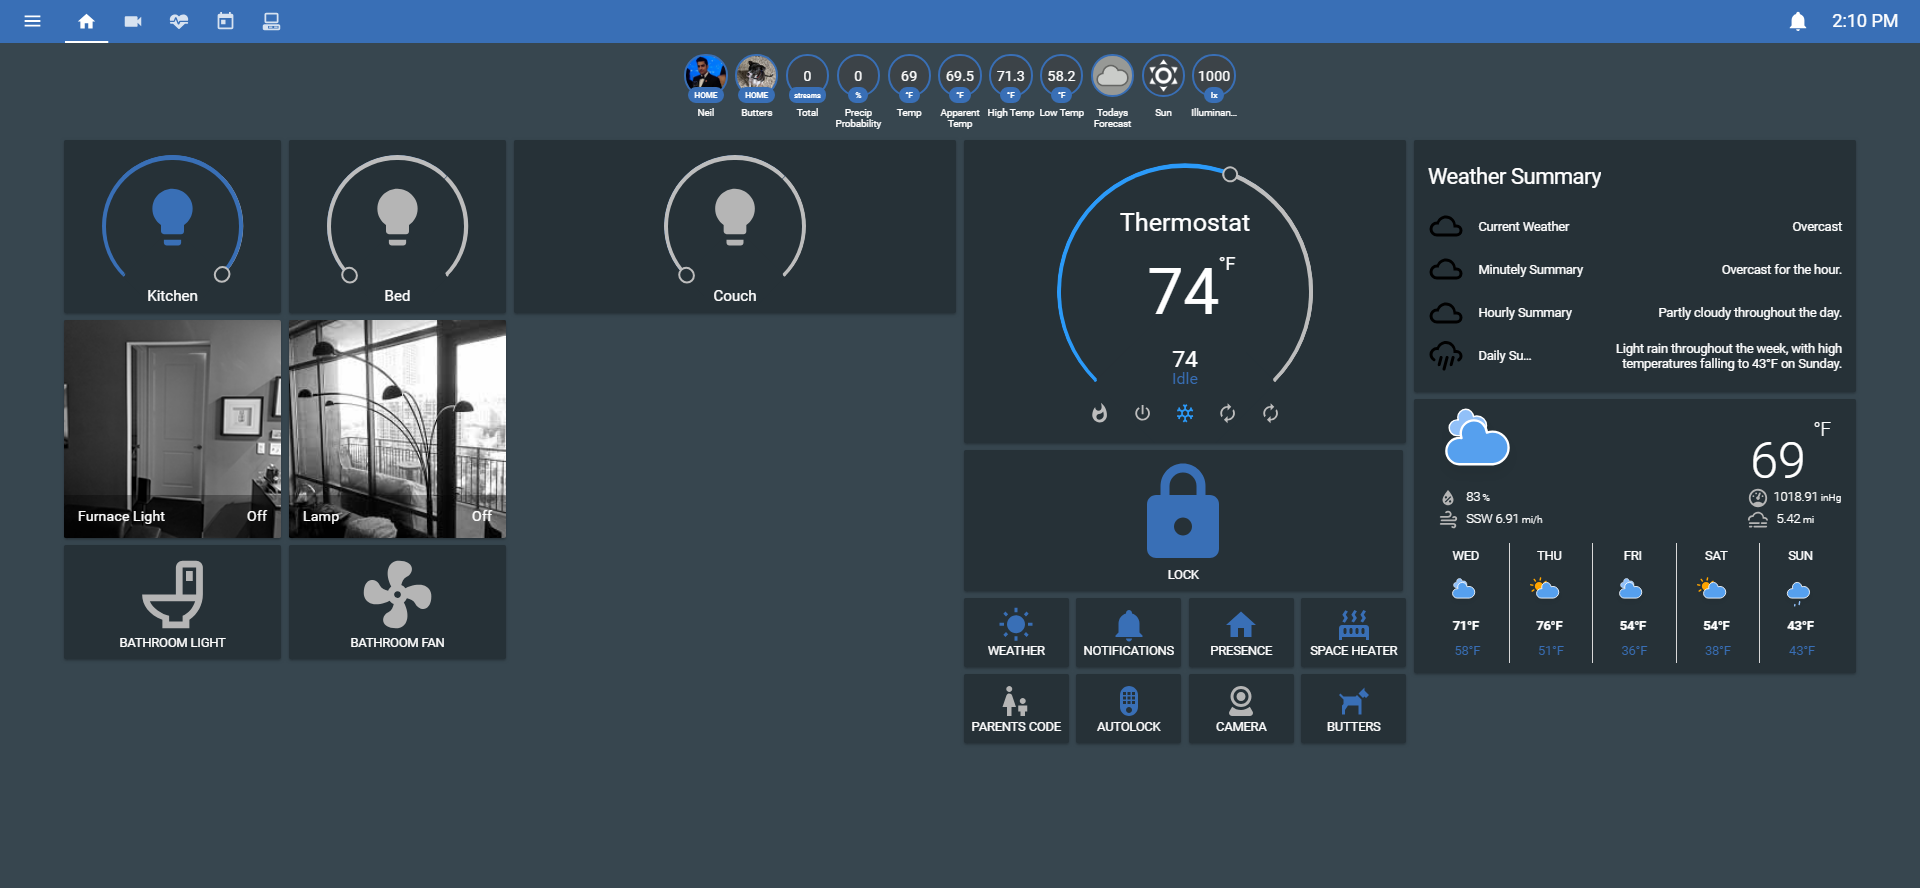
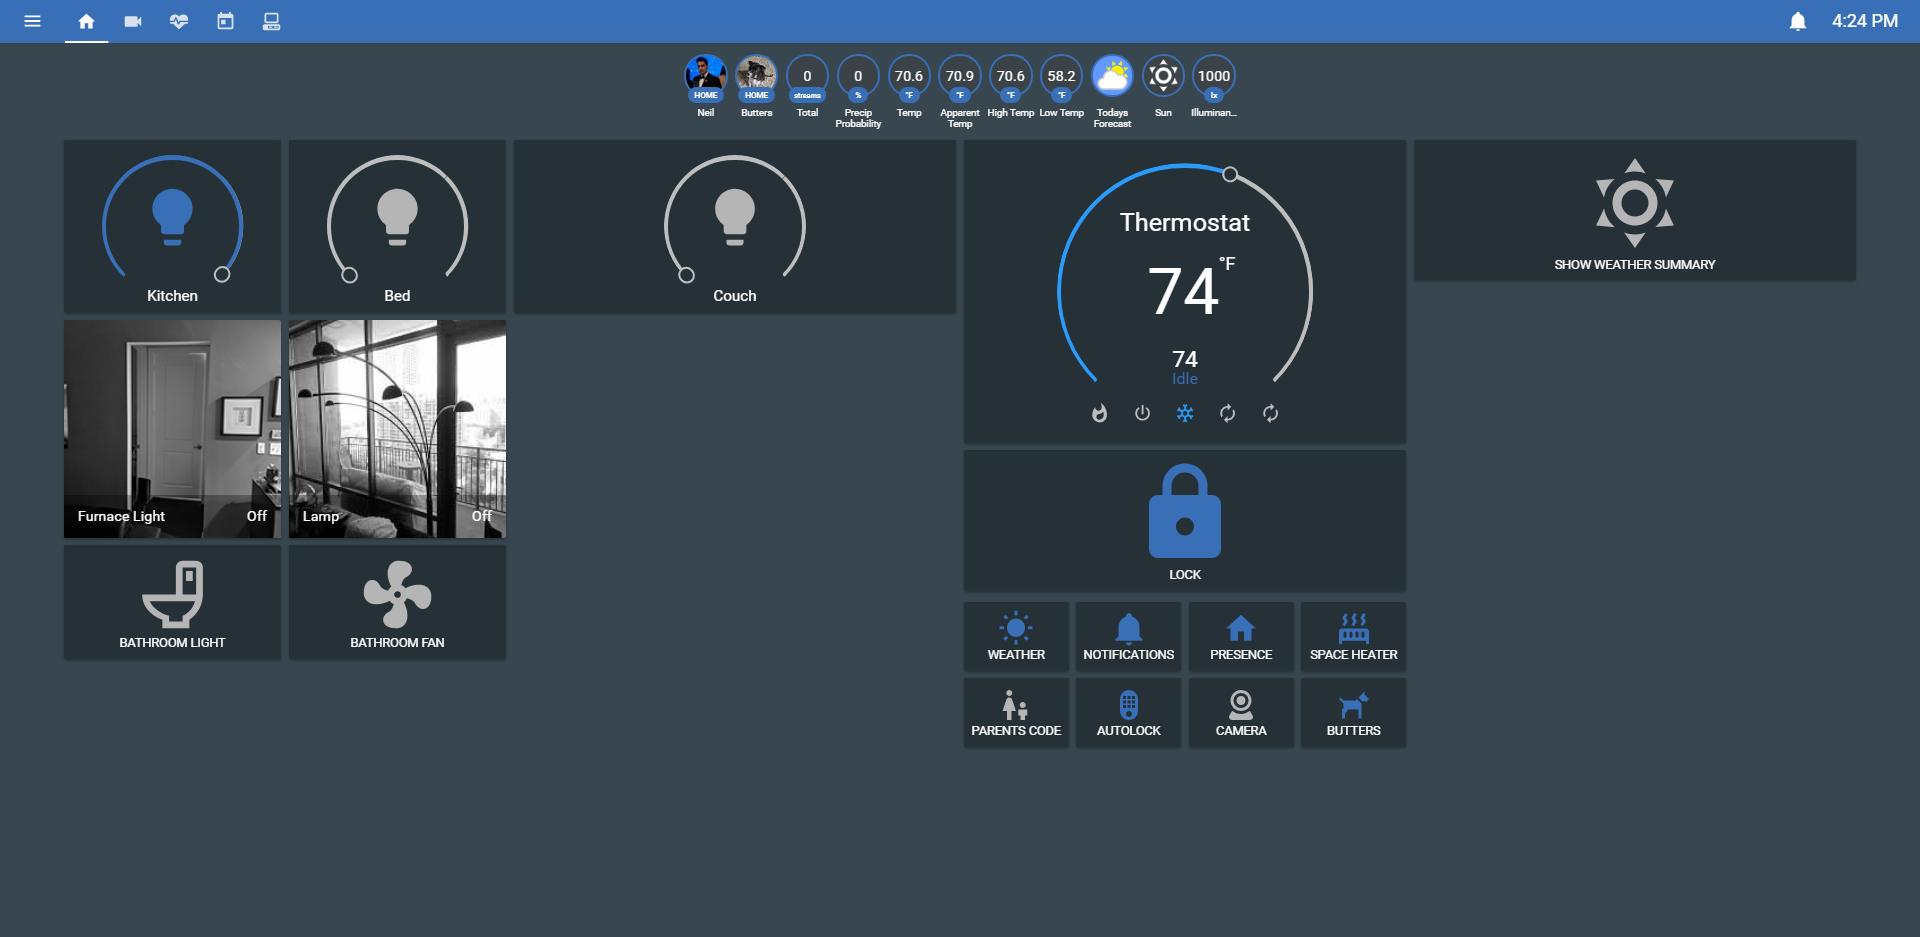
scheduled backup

diff --git a/README.md b/README.md
@@ -18,8 +18,14 @@ Fitbit View (I didn't sleep much)
 Calendar, Device Tracker, and Temp Lock Code View
 ![Calendar and Lock View](Screenshots/calendar_lock_view.png)
 
+Calendar, Device Tracker, and Temp Lock Code View With All Expanded
+![Calendar and Lock View](Screenshots/calendar_lock_view_collapsed.png)
+
 System Monitor View
 ![System View](Screenshots/system_view.png)
+
+System Monitor View With All Expanded
+![System View](Screenshots/system_view_collapsed.png)
 
 ## Custom Components:
 
